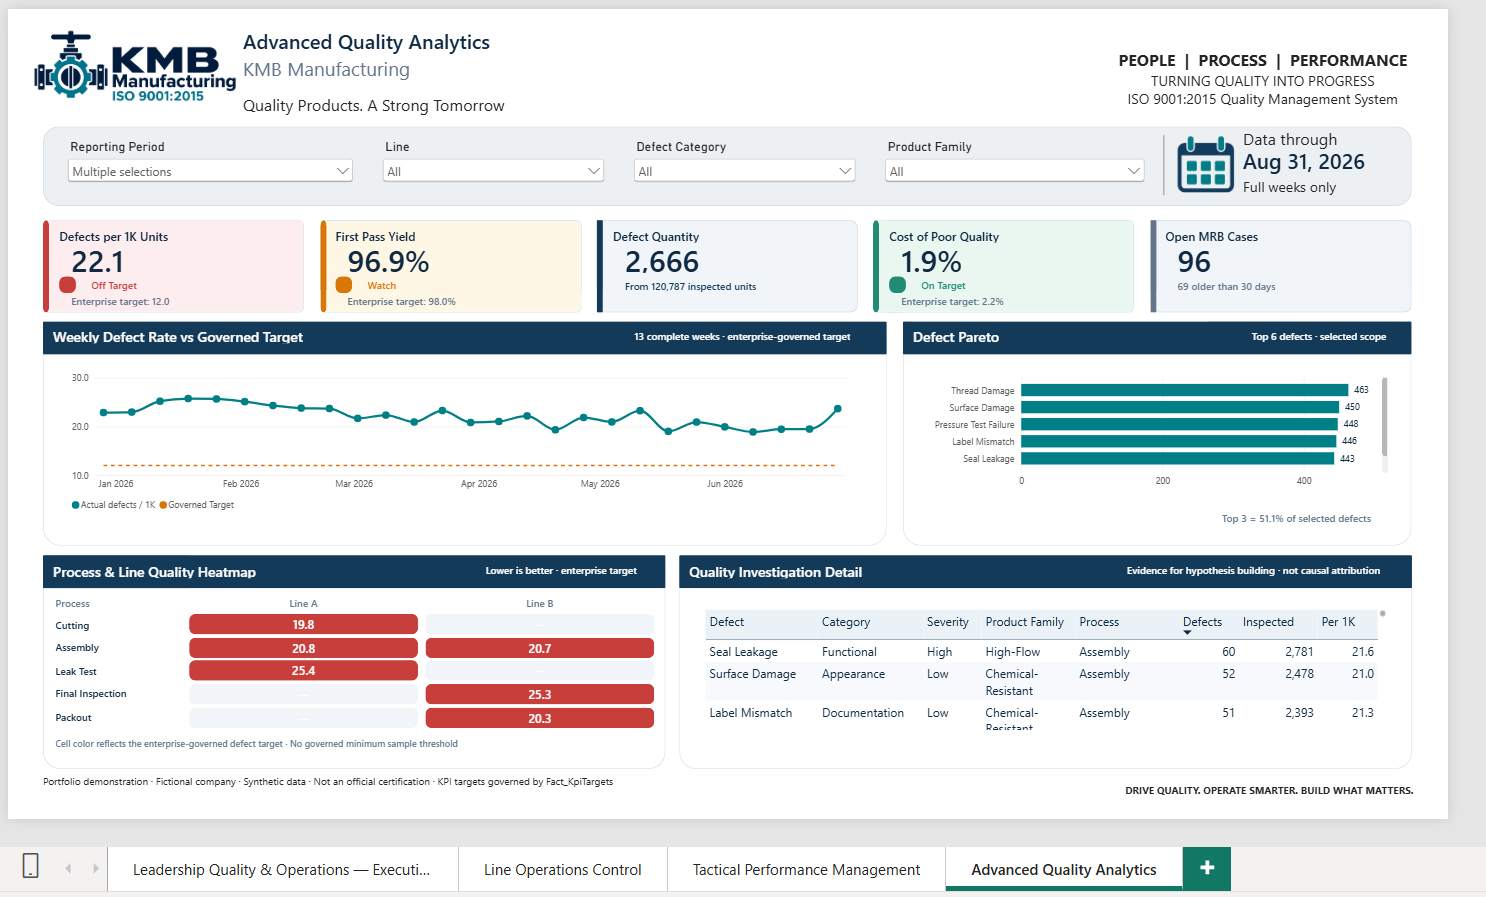
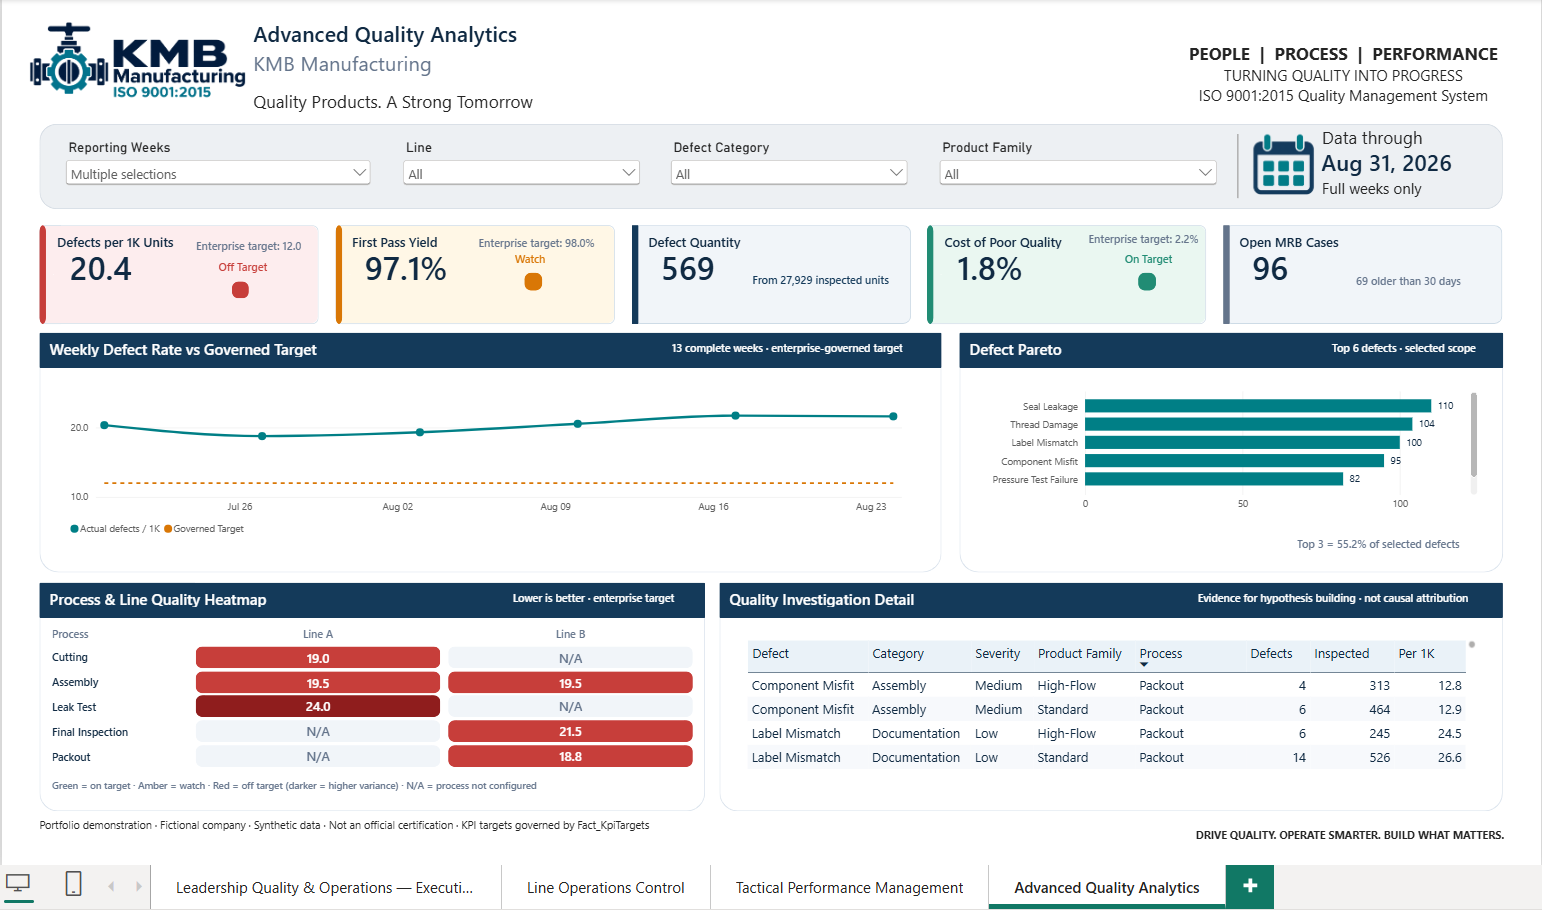
Sync final dashboard visual corrections

diff --git a/docs/validation.md b/docs/validation.md
@@ -42,12 +42,12 @@ The source workbook, Power BI project structure, semantic-model references, repo
 - All three registered resources and all eight image references resolve to files in the project.
 - Four report pages are present with unique names.
 - The Process & Line Quality Heatmap is bound to dynamic background and font-color measures; blank cells render with the documented neutral treatment.
-- KPI status icon color logic is present across the report. Thirteen icon-bearing visuals use the governed status-color measure, while the remaining scorecard uses explicit rules.
+- KPI status icon color logic is present across the report. Measure-driven and rules-based scorecards use the same green, amber, red, and neutral status convention.
 - The only functional-definition edits made for publication were the portable source placeholder and the removal of an external-tool name from one embedded calendar asset and its four references. The calendar image binary is unchanged.
 
-### Open visual finding
+### Final visual confirmation
 
-Two scorecard rule sets compare the Off Target symbol with the ASCII character `x`, while their DAX measures emit the multiplication symbol `×`. The icon value and status label remain correct, but the Off Target icon can retain the default font color instead of red. This was documented rather than changed because the publication cleanup was required not to alter dashboard behavior. Confirm the rendered result in Power BI Desktop before publishing screenshots.
+The two rules-based scorecards compare the same `×` symbol emitted by their DAX measures. Final Power BI Desktop captures confirm that On Target, Watch, and Off Target icons render with the intended green, amber, and red colors. The Tactical trend uses KPI-aware axis formatting, and the Advanced heatmap shows dynamic severity colors with `N/A` for process-and-line combinations that are not configured.
 
 ## Repository hygiene checks
 
